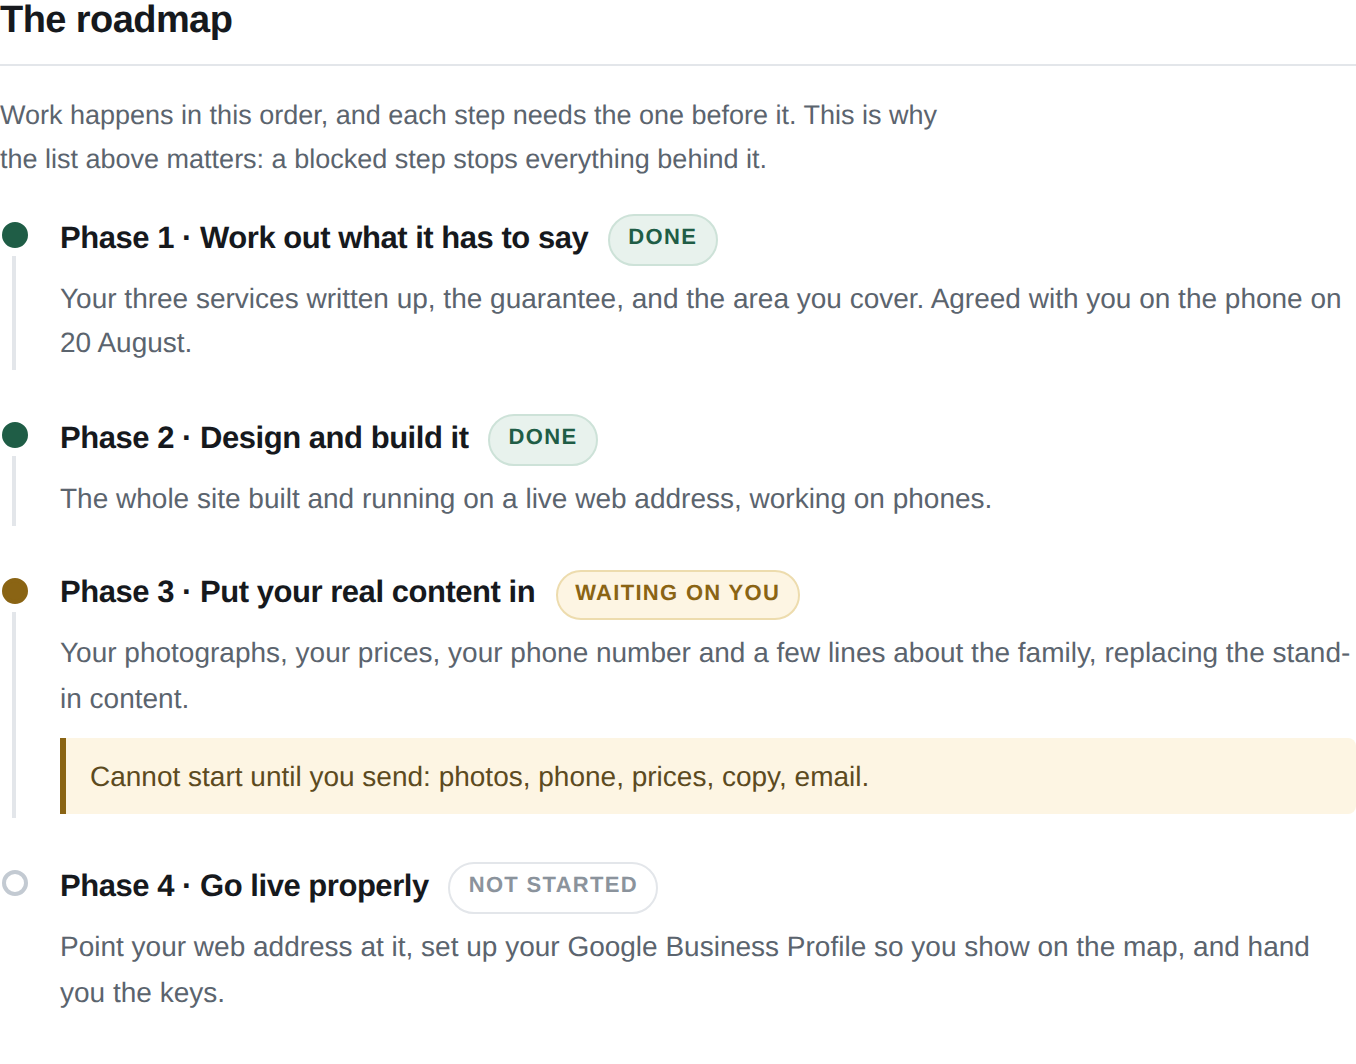
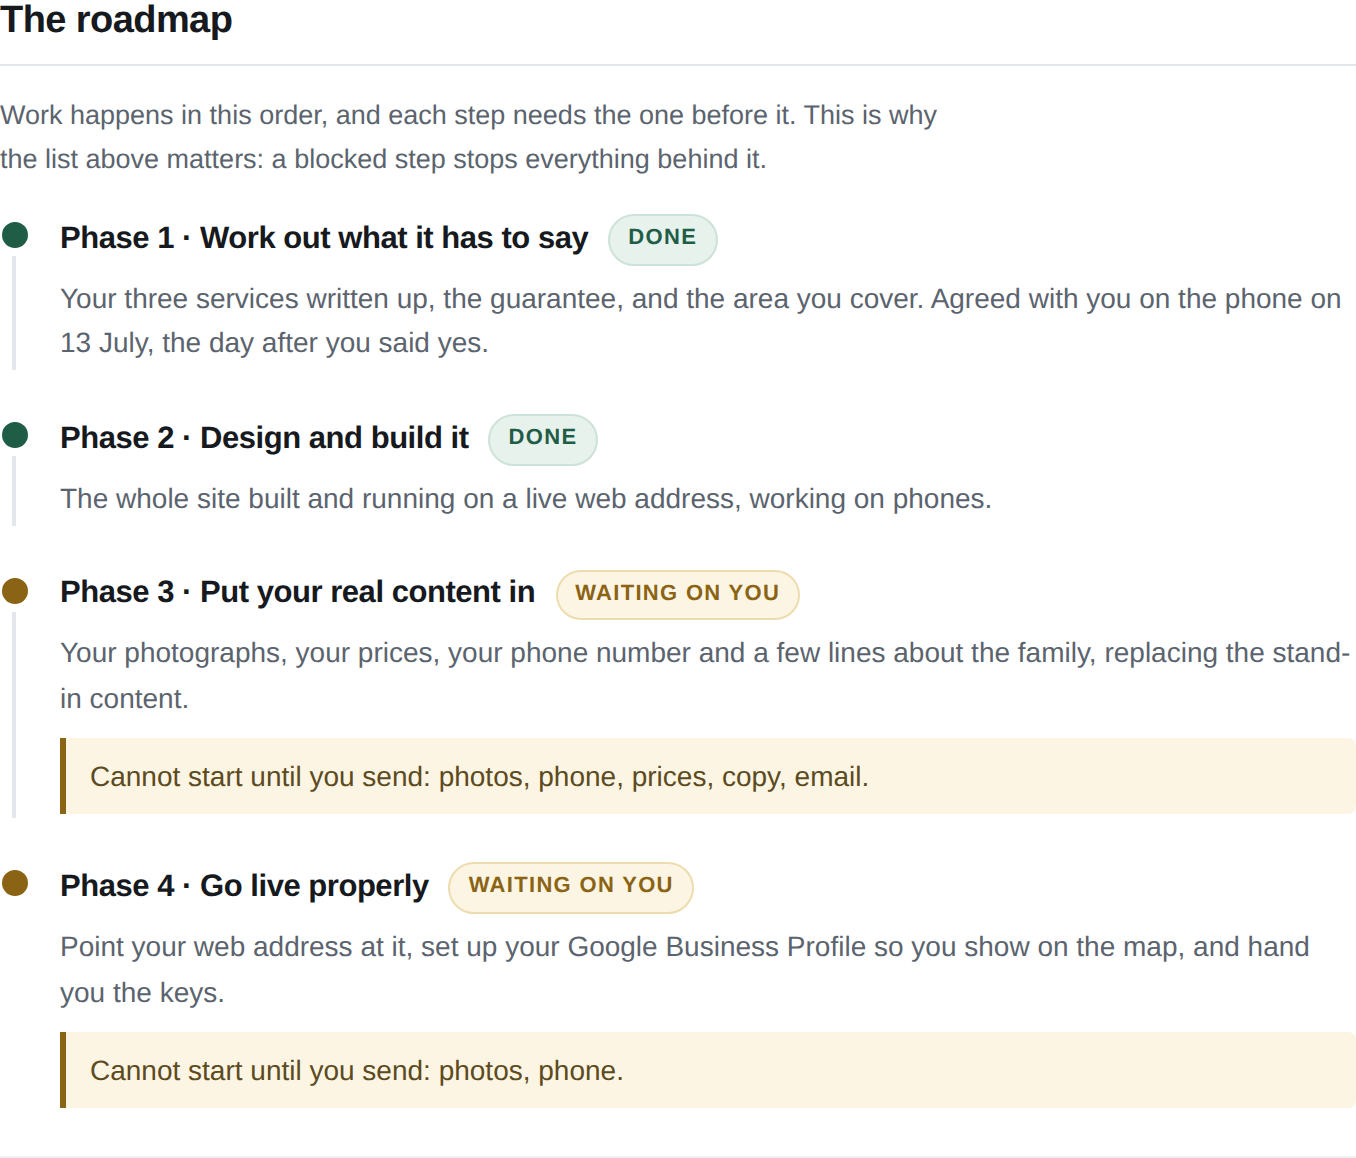
Audit fixes: cut a command that does not exist, and a company I cannot verify
- Slide 19 showed '$ client-packet check ...'. There is no such executable;
  attendees would have typed it and got nothing. Now shows the real Claude
  Code invocation.
- 'Epoch Digital' removed from slides 2 and 22. It is in the planning doc
  and nowhere on the post or his Skool profile. Third unverified claim about
  a real person, so it goes.
- Document screenshots refreshed: the roadmap now shows two blocked phases,
  which is what the data actually says and what slide 14 claims.

Claude-Session: https://claude.ai/code/session_01CohvP4vHjKGB88kFpFKxiE

Changed region(s): [[0.0, 0.3412, 1.0, 0.9615], [0.0, 0.093, 0.9912, 0.3412], [0.0, 0.0, 0.1858, 0.062]]

diff --git a/index.html b/index.html
@@ -217,7 +217,7 @@ mark{background:rgba(94,106,210,.26);color:var(--ink);
     <div class="post">
       <div class="post-head">
         <div class="avatar">SM</div>
-        <div><div class="post-who">Silvano Matthews &middot; Epoch Digital</div>
+        <div><div class="post-who">Silvano Matthews</div>
         <div class="post-when">1 September 2026</div></div>
       </div>
       <p>"I made a trade with a construction worker where he did some work to my house
@@ -471,12 +471,12 @@ mark{background:rgba(94,106,210,.26);color:var(--ink);
   </div>
   <div class="grow" style="margin-top:var(--sp4)">
     <div class="term">
-      <div class="cmd">$ client-packet check ~/projects/marlowe</div>
+      <div class="cmd">&gt; use client-packet &mdash; check in on ~/projects/marlowe</div>
       <div class="dim">5 files scanned.</div>
       <div class="good">&nbsp;&nbsp;landed:&nbsp;&nbsp;&nbsp;&nbsp;Six photographs of finished gardens</div>
       <div class="good">&nbsp;&nbsp;landed:&nbsp;&nbsp;&nbsp;&nbsp;The phone number you want on the site</div>
       <div class="warn">&nbsp;&nbsp;unblocked: Phase 4 &middot; Go live properly</div>
-      <div class="dim">3 still outstanding. Now version 5.</div>
+      <div class="dim">3 still outstanding. Now version 5, written to packet.html.</div>
     </div>
     <p style="margin-top:var(--sp4)">Two asks landed, so a phase opened itself and the
       document rewrote itself. Nobody typed a status update.</p>
@@ -531,7 +531,7 @@ mark{background:rgba(94,106,210,.26);color:var(--ink);
     <p style="margin-top:var(--sp4)">Two commands. One at kickoff, one every check-in.
       No API key, nothing to configure.</p>
   </div>
-  <div class="foot"><span>Idea credit: Silvano Matthews, Epoch Digital</span><span class="n"></span></div>
+  <div class="foot"><span>Idea credit: Silvano Matthews</span><span class="n"></span></div>
 </section>
 
 </div>
